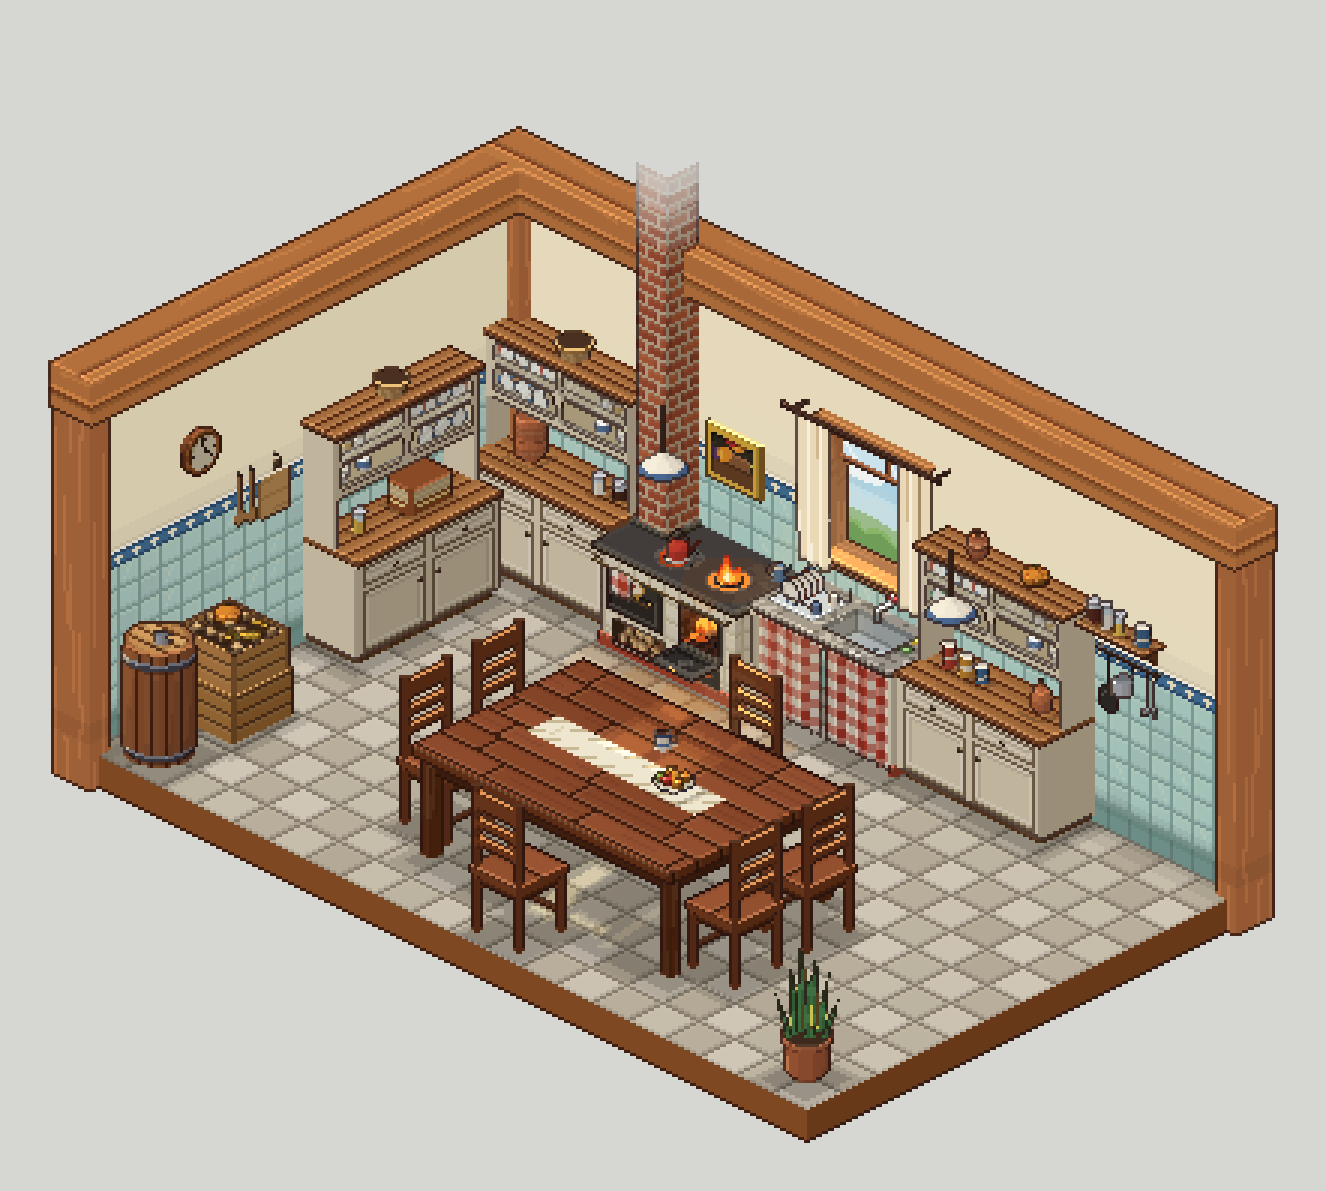
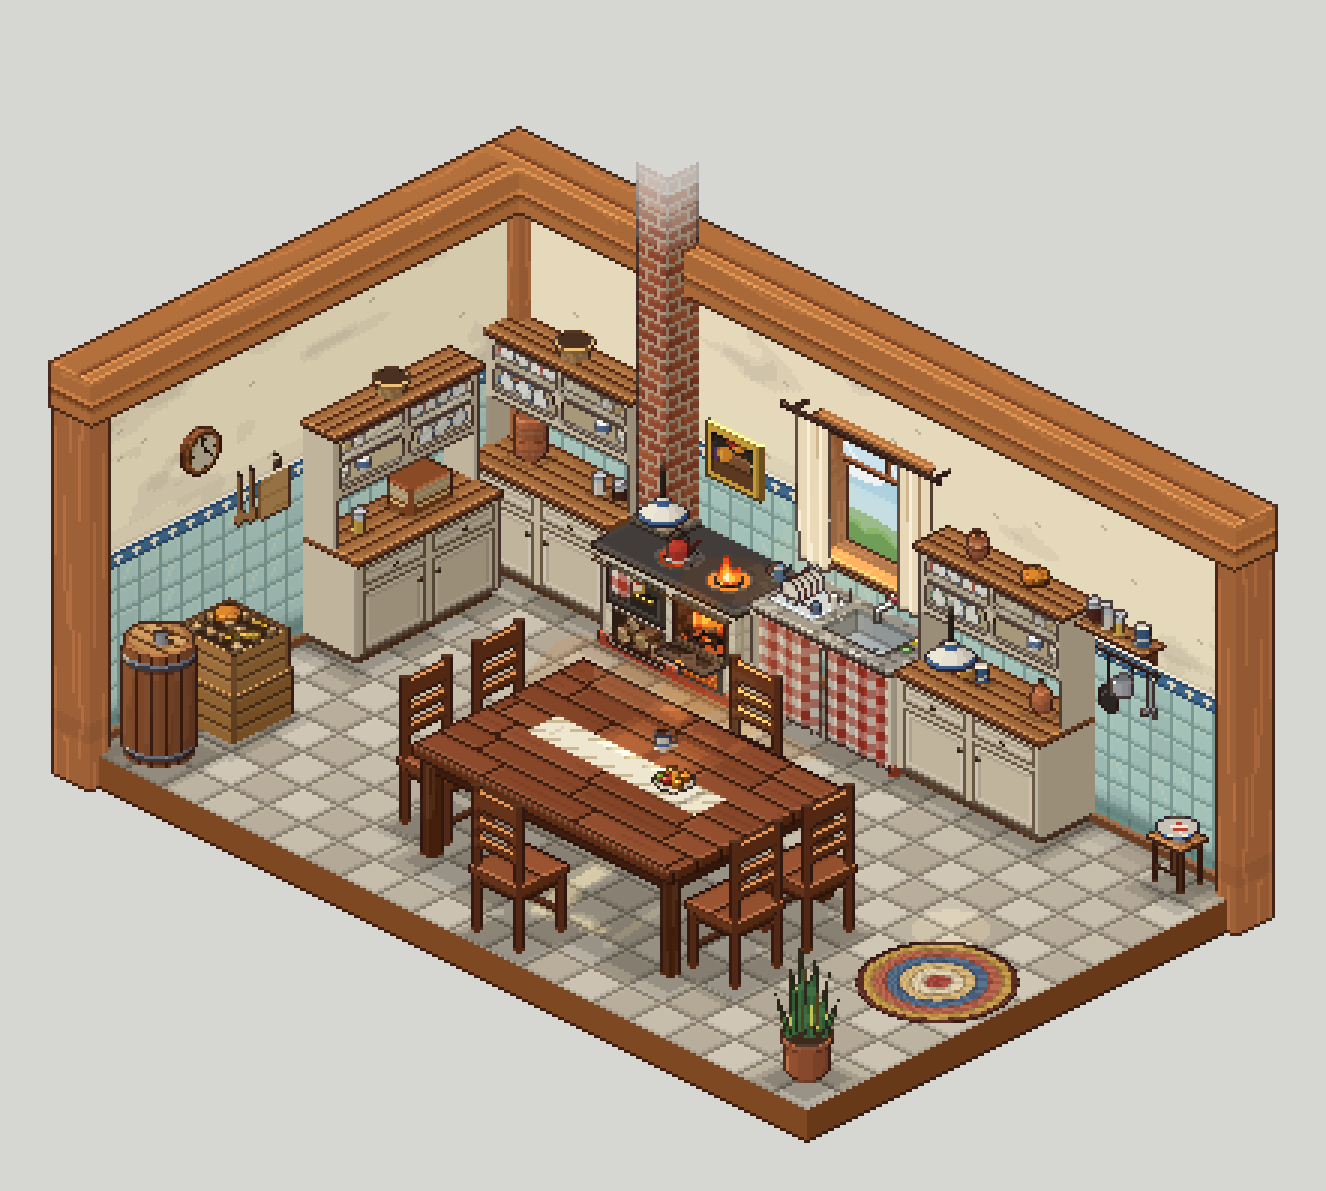
Estudo do estilo: a cozinha da fazenda corrigida
As lâmpadas do teto com o fio sumindo antes da viga e a luz em cone na
mesa, a fornalha maior com o brilho no chão e as frestas do cinzeiro, as
toras do nicho de lenha, o tapete de trança e o banquinho com a bacia, a
cal com desgaste e o rodapé.

Claude-Session: https://claude.ai/code/session_01GewMJN2dFJ5tMTC2oy9kJJ

diff --git a/scripts/3d/estilo/agente_cozinha/cozinha.py b/scripts/3d/estilo/agente_cozinha/cozinha.py
@@ -24,7 +24,7 @@ sys.path.insert(0, os.path.join(os.path.dirname(os.path.abspath(__file__)), '..'
 sys.path.insert(0, AQUI)
 import numpy as np                          # noqa: E402
 from PIL import Image                       # noqa: E402
-from motor import Cena, MUNDO, tela, ruido, emissivo, KX, KY, KZ, VISTA   # noqa: E402
+from motor import Cena, MUNDO, tela, ruido, emissivo, suave, KX, KY, KZ, VISTA   # noqa: E402
 import base_estilo as BE                    # noqa: E402
 from base_estilo import (hx, coords, liso, madeira, tabuas, mad2, tab2, vol, _tom, _cru, _fac, _poligono_rodado,  # noqa: E402
                          _disco, _fita, _pau, _barra, _p1_malha, _p1_mat_rampa, _p1_rampa, _MAD, _ponta_tabuas,
@@ -41,7 +41,8 @@ c = None
 pegadas = []
 luzes = set()
 vidros = []          # o vidro dos armários: caixas no mundo (o que se vê por trás dele fica tingido)
-fades = []           # objetos que somem para o fundo acima de uma altura (a chaminé, os fios das lâmpadas)
+fades = []           # objetos que somem para o fundo acima de uma altura (a chaminé)
+fades_atras = []     # os que somem para o que está atrás deles (o fio das lâmpadas)
 lampadas = []        # o meio da lâmpada (para a luz)
 itens_peq = []       # objetos pequenos nos tampos (a sombrinha de contato)
 
@@ -130,6 +131,16 @@ def parede(eixo):
         # a cal: clareia em 2 degraus para cima
         out = np.where((z > 2.0)[:, None], _tom(pint, 1.04), out)
         out = np.where((z < 1.75)[:, None], _tom(pint, 0.97), out)
+        # a cal gasta: manchas grandes e suaves em dois degraus (pixel limpo: a borda segue a grade 1 px x 1 px)
+        qa, qz = np.floor(a / PH) * PH, np.floor(z / PZ) * PZ
+        s = suave(qa + (3.1 if eixo == 'x' else 11.7), qz * 1.6, 0.55, 9) * 0.65 + suave(qa, qz * 2.0, 0.22, 4) * 0.35
+        out = np.where((s > 0.66)[:, None], _tom(out, 0.95), out)
+        out = np.where((s > 0.76)[:, None], _tom(out, 0.95), out)
+        # as lasquinhas (2 px deitados, a sombra embaixo) e a sujeira escura logo embaixo da viga
+        ia_, iz_ = np.floor(a / (2 * PH)), np.floor(z / PZ)
+        lasca = ruido(ia_, iz_, 5.0) > 0.996
+        out = np.where(lasca[:, None], _tom(pint, 0.82), out)
+        out = np.where(((z > ALTO - 2 * PZ))[:, None], _tom(out, 0.9), out)
         # o azulejo
         ia, iz = np.floor(a / TA), np.floor(z / TZ)
         ga, gz = a - ia * TA, z - iz * TZ
@@ -164,6 +175,10 @@ def sala():
     c.caixa((0, LX, 0, LY, -0.28, 0), {'cima': ladrilho(), '*': madeira('#94552c', veio=False)}, M, o)
     caixa((-ESP, LX, -ESP, 0, 0, ALTO), {'frente': parede('x'), '*': liso('#8a5230')}, tipo=2)
     caixa((-ESP, 0, 0, LY, 0, ALTO), {'dir': parede('y'), '*': liso('#8a5230')}, tipo=2)
+    # o rodapé de madeira encerada nas duas paredes (a quina de cima clara)
+    RDP = _pau('#6e4026', '#8a5434', quina=1.3, b=(0, 0, 0, 0, 0, 0.09))
+    caixa((0, LX, 0, 0.018, 0, 0.09), RDP, tipo=2)
+    caixa((0, 0.018, 0.018, LY, 0, 0.09), RDP, tipo=2)
     # a viga grossa em cima e os pilares (no canto de trás e nas duas pontas)
     MOLD = ['#b5733e', '#ad6c3a']
     VG = tabuas(MOLD, 0.6, 9, '#7a4222', ponta=False)
@@ -242,9 +257,17 @@ def tora_y(cx, cz, r, y0, y1, casca='#5a3a22', miolo='#c89a62', lados=8, oid=Non
         fp([(xa, y0, za), (xb, y0, zb), (xb, y1, zb), (xa, y1, za)], nn, liso('#%02x%02x%02x' % tuple(np.clip(cc * k, 0, 255).astype(int))), o)
 
     def ponta(L, n, P):
-        rr = np.hypot(P[:, 0] - cx, P[:, 2] - cz) / r
+        # no pixel: a casca (1 px), o alburno claro, o anel escuro no meio e o miolo
+        rx = (P[:, 0] - cx) * 32
+        rz = (P[:, 2] - cz) * 39.2
+        rr = np.hypot(rx, rz)
+        R = r * 32
         out = np.tile(cm, (len(P), 1))
-        out = np.where((rr > 0.72)[:, None], _tom(cm, 0.8), out)
+        out = np.where((rr < R * 0.62)[:, None], _tom(cm, 0.94), out)
+        out = np.where((np.abs(rr - R * 0.5) < 0.55)[:, None], _tom(cm, 0.72), out)
+        out = np.where((rr < 0.9)[:, None], _tom(cm, 0.66), out)
+        out = np.where(((rr > R - 1.1) & (rx + rz > 0))[:, None], _tom(cm, 1.08), out)
+        out = np.where((rr > R - 0.9)[:, None] & ~((rx + rz > 0)[:, None]), _tom(cc, 1.2), out)
         return out
     fp([(x, y1, z) for (x, z) in pts], (0, 1, 0), emissivo(ponta), o)
     return o
@@ -254,7 +277,7 @@ def tora_y(cx, cz, r, y0, y1, casca='#5a3a22', miolo='#c89a62', lados=8, oid=Non
 # o fogão a lenha (2 x 1 casas, giro 4: a frente para +y, encostado no fundo; altura 0,85 m; aceso)
 # =====================================================================================================================
 FOG = dict(x0=1.5, x1=3.0, yb=0.70, zc=0.79, zt=0.85)
-FORN = dict(m=2.6, bw=0.2, zp=0.36, bt=0.66, yb=0.70, yf=0.28)      # a boca da fornalha
+FORN = dict(m=2.6, bw=0.24, zp=0.38, bt=0.7, yb=0.70, yf=0.26)      # a boca da fornalha
 CHAM = (1.55, 1.89, 0.0, 0.34)                                          # a chaminé (x0, x1, y0, y1)
 BOCAS = ((2.62, 0.43), (2.12, 0.45))                                    # as bocas da chapa (a 1ª, em cima do fogo, aberta)
 FURO = 0.095                                                            # o buraco da boca aberta
@@ -264,7 +287,7 @@ def fogao(aceso=True):
     x0, x1, yb, zc, zt = FOG['x0'], FOG['x1'], FOG['yb'], FOG['zc'], FOG['zt']
     m, bw, zp, bt, yf = FORN['m'], FORN['bw'], FORN['zp'], FORN['bt'], FORN['yf']
     # ---- o corpo de alvenaria: azulejinho creme, a barra vermelha embaixo ----
-    nicho = (1.68, 2.2, 0.06, 0.25)                  # o nicho da lenha embaixo do forno
+    nicho = (1.66, 2.2, 0.05, 0.33)                  # o nicho da lenha embaixo do forno
     corpo = c.novo_obj(3)
     AZF = azulejinho()
     face_com_furos('y', yb, x0 + 0.03, x1 - 0.03, 0.1, zc, [(m - bw, m + bw, zp, bt), (nicho[0], nicho[1], 0.1, nicho[3])], AZF, corpo)
@@ -316,7 +339,7 @@ def fogao(aceso=True):
         _barra(b, '#34302d', '#4a4541', quina=1.3)
     # a portinhola da fornalha aberta para baixo (presa embaixo): fica deitada na frente da boca, de ferro fundido
     # com a moldura em relevo, o losango e a tramela de latão; não tapa o fogo nem o forno
-    dz0, dlen, desp = zp - e, 0.3, 0.022
+    dz0, dlen, desp = zp - e, 0.22, 0.022
     dx0, dx1 = m - bw - e + 0.008, m + bw + e - 0.008
 
     def portinhola(L, n, P):
@@ -339,25 +362,32 @@ def fogao(aceso=True):
         _barra((xx, xx + 0.03, yb, yb + 0.03, dz0 - desp - 0.004, dz0 + 0.004), '#2a2624', '#4a4541', quina=False)
 
     # ---- o cinzeiro embaixo da fornalha (as frestas em brasa) ----
-    zc0, zc1 = 0.1, 0.28
+    zc0, zc1 = 0.08, 0.3
 
     def cinzeiro(L, n, P):
         out = np.tile(hx('#36322f'), (len(P), 1))
         if n[1] > 0.5:
             z = P[:, 2]
             X = P[:, 0]
-            for k in range(2):
-                zz = zc0 + 0.06 + k * 0.05
-                fr = (z > zz) & (z <= zz + PZ) & (np.abs(X - m) < bw - 0.07)
-                out = np.where(fr[:, None], hx('#b8481e') if aceso else hx('#141210'), out)
-                out = np.where(((z > zz + PZ) & (z <= zz + 2 * PZ) & (np.abs(X - m) < bw - 0.06))[:, None], hx('#4e4844'), out)
-            out = np.where((np.abs(X - m) < 0.02)[:, None] & (z > zc1 - 0.045)[:, None] & (z < zc1 - 0.02)[:, None], hx('#c89a3e'), out)
+            # as três frestas em brasa (2 px: a de cima mais viva, pulsando com o fogo)
+            pul = 0.5 + 0.5 * math.sin(2 * math.pi * FOGO_T['t'])
+            for k in range(3):
+                zz = zc0 + 0.02 + k * 0.042
+                lar = np.abs(X - m) < bw - 0.06
+                fr1 = (z > zz) & (z <= zz + PZ) & lar
+                fr2 = (z > zz + PZ) & (z <= zz + 2 * PZ) & lar
+                if aceso:
+                    out = np.where(fr1[:, None], hx('#c8481c'), out)
+                    out = np.where(fr2[:, None], hx('#ffb040') if (pul > 0.5) != (k == 1) else hx('#f08a2a'), out)
+                else:
+                    out = np.where((fr1 | fr2)[:, None], hx('#141210'), out)
+                out = np.where(((z > zz + 2 * PZ) & (z <= zz + 3 * PZ) & lar)[:, None], hx('#4e4844'), out)
         return out
     o = c.novo_obj(3)
     c.caixa((m - bw + 0.01, m + bw - 0.01, yb, yb + 0.018, zc0, zc1), {'frente': emissivo(cinzeiro), '*': _pau('#2e2a28', '#4a4541', quina=1.3, b=(0, 0, 0, 0, zc0, zc1))}, M, o)
 
     # ---- o forno: a porta de ferro com a moldura, o puxador e o termômetro ----
-    fx0, fx1, fz0, fz1 = 1.62, 2.2, 0.33, 0.68
+    fx0, fx1, fz0, fz1 = 1.62, 2.24, 0.39, 0.72
 
     def forno(L, n, P):
         out = np.tile(hx('#3a3532'), (len(P), 1))
@@ -386,12 +416,11 @@ def fogao(aceso=True):
     fp([(nx0, 0.32, nz0), (nx1, 0.32, nz0), (nx1, yb, nz0), (nx0, yb, nz0)], (0, 0, 1), liso('#2e2016'), on)
     fp([(nx0, 0.32, nz0), (nx1, 0.32, nz0), (nx1, 0.32, nz1), (nx0, 0.32, nz1)], (0, 1, 0), liso('#22170f'), on)
     fp([(nx0, 0.32, nz0), (nx0, yb, nz0), (nx0, yb, nz1), (nx0, 0.32, nz1)], (1, 0, 0), liso('#3a2a1e'), on)
-    r = 0.05
-    pilha = c.novo_obj(3)            # a pilha é um objeto só: sem contorno entre as toras (só a casca escura entre elas)
-    for k, xx in enumerate((nx0 + 0.07, nx0 + 0.18, nx0 + 0.29, nx0 + 0.4)):
-        tora_y(xx, nz0 + r, r, 0.36, yb - 0.02 - 0.012 * (k % 2), oid=pilha, casca=('#6a4428', '#5a3a22')[k % 2], miolo=('#e6bf86', '#dcb27a')[k % 2])
-    for k, xx in enumerate((nx0 + 0.125, nx0 + 0.235, nx0 + 0.345)):
-        tora_y(xx, nz0 + 2.7 * r, r * 0.95, 0.36, yb - 0.03 - 0.015 * (k % 2), oid=pilha, casca=('#5a3a22', '#6a4428')[k % 2], miolo=('#dcb27a', '#e8c48c')[k % 2])
+    # três toras grandes embaixo e uma em cima, encaixada (as pontas claras com os anéis e a casca escura)
+    r = 0.078
+    for k, xx in enumerate((nx0 + 0.095, nx0 + 0.265, nx0 + 0.435)):
+        tora_y(xx, nz0 + r, r, 0.36, yb - 0.015 - 0.02 * (k % 2), casca=('#5e3c22', '#6a4428', '#553620')[k], miolo=('#e8c48c', '#dcb47a', '#e4be84')[k], lados=12)
+    tora_y(nx0 + 0.18, nz0 + r + 1.62 * r, r * 0.92, 0.36, yb - 0.035, casca='#6a4428', miolo='#eccb94', lados=12)
 
     # ---- o varão de latão na frente da chapa, com o pano de prato xadrez ----
     for xx in (x0 + 0.05, x1 - 0.07):
@@ -1096,6 +1125,50 @@ def espada_sao_jorge(x, y):
             c.face_plana([(cx_ + s * k, cy_ - s * k, zz) for (s, zz) in quad], (k, k, 0), emissivo(f), M, of)
 
 
+def tapete_tranca(xc, yc, r=0.6):
+    """O tapete redondo de trança de retalhos: os anéis de cores, cada um com a trança em diagonal, a borda escura."""
+    cores = np.stack([hx(x) for x in ('#a8443a', '#c89a48', '#4e6a8a', '#e2d2ae', '#6e7c4a', '#b8604a', '#d8b878')])
+    pa = 3 * PH                                   # a largura de cada anel (3 px)
+
+    def f(L, n, P):
+        dx, dy = P[:, 0] - xc, P[:, 1] - yc
+        rr = np.hypot(dx, dy)
+        anel = np.floor(rr / pa)
+        ang = np.arctan2(dy, dx)
+        out = cores[(anel.astype(int) * 3) % len(cores)]
+        # a trança: os gomos em diagonal, um claro e um escuro, desencontrados de anel para anel
+        g = np.floor(ang * rr / (2 * PH) + anel * 0.5 + (rr % pa) / pa)
+        out = np.where((g % 2 == 0)[:, None], _tom(out, 1.08), _tom(out, 0.9))
+        out = np.where((rr % pa < PH * 0.8)[:, None], _tom(out, 0.78), out)
+        out = np.where((rr > r - 1.6 * PH)[:, None], hx('#5a2e22'), out)
+        return out
+    o = c.novo_obj(3)
+    c.cilindro(xc, yc, r, 0.0, 0.014, liso('#4a2620'), M, o, lados=40, tampa_mat=emissivo(f))
+
+
+def banquinho(x, y, cor='#8a5230'):
+    """O banquinho de madeira encostado na parede, com a bacia de ágata em cima."""
+    s, d, h = 0.36, 0.3, 0.4
+    caixa((x, x + s, y, y + d, h - 0.04, h), {'cima': tab2(['#b07440', '#a86e3c'], d / 2, '#5a2c16', eixo=0, seed=81, org=y), '*': _pau(cor, quina=False)}, sombra=False)
+    for (a, b) in ((x + 0.03, y + 0.03), (x + s - 0.07, y + 0.03), (x + 0.03, y + d - 0.07), (x + s - 0.07, y + d - 0.07)):
+        _barra((a, a + 0.04, b, b + 0.04, 0, h - 0.04), '#6a3c22', '#8a5230', quina=False)
+    _barra((x + 0.05, x + s - 0.05, y + d - 0.06, y + d - 0.04, 0.12, 0.15), '#6a3c22', quina=False)
+    pegadas.append((x, x + s, y, y + d))
+    # a bacia esmaltada (branca com a borda azul) e o pano dobrado dentro
+    bx, by = x + s / 2, y + d / 2
+    o = c.novo_obj(3)
+    _poligono_rodado(bx, by, [(h, 0.1), (h + 0.05, 0.15), (h + 0.07, 0.17)], vol(bx, by, '#ece6da', brilho=0.4,
+                     faixas=lambda P, b: np.where((P[:, 2] > h + 0.07 - 1.2 * PZ)[:, None], hx('#3e5f8e'), b)), o, lados=24)
+
+    def dentro(L, n, P):
+        rr = np.hypot(P[:, 0] - bx, P[:, 1] - by)
+        out = np.where((rr > 0.15)[:, None], hx('#3e5f8e'), hx('#c8c2b6'))
+        pano = (np.abs(P[:, 0] - bx - 0.02) < 0.06) & (np.abs(P[:, 1] - by + 0.01) < 0.05)
+        return np.where(pano[:, None], np.where(((np.floor(P[:, 0] / (2 * PH)) + np.floor(P[:, 1] / (2 * PH))) % 2 == 0)[:, None], hx('#b8402e'), hx('#f0e6d6')), out)
+    _disco(bx, by, h + 0.07, 0.17, emissivo(dentro), o, lados=24)
+    itens_peq.append((bx - 0.17, bx + 0.17, by - 0.17, by + 0.17, h))
+
+
 # =====================================================================================================================
 # as coisas de parede: a prateleira com os potes e as panelas penduradas, a natureza-morta, o relógio, o alho
 # =====================================================================================================================
@@ -1327,30 +1400,39 @@ def tabua_colheres(yc, zt):
            liso('#c8925a'), oc_)
 
 
-def lampada(x, y, zc=2.7):
-    """A lâmpada pendurada de esmalte (o prato branco com a borda azul e a lâmpada acesa) e o fio que sobe."""
+def lampada(x, y, zc=2.3):
+    """
+    A lâmpada pendurada de esmalte: a cúpula branca com a borda azul, a lâmpada acesa, o soquete preto e o fio que
+    sobe e some aos poucos (em degraus, para o que está atrás dele) antes da viga.
+    """
     o = c.novo_obj(3)
-    _poligono_rodado(x, y, [(zc, 0.2), (zc + 0.05, 0.15), (zc + 0.11, 0.06), (zc + 0.14, 0.035)],
-                     vol(x, y, '#ece6d6', brilho=0.3, faixas=lambda P, b: np.where((P[:, 2] < zc + PZ * 1.5)[:, None], hx('#3e5f8e'), b)), o, lados=24,
-                     tampa_mat=liso('#d8d2c2'))
+    perfil = [(zc, 0.2), (zc + 0.03, 0.18), (zc + 0.08, 0.12), (zc + 0.13, 0.055), (zc + 0.15, 0.04)]
+
+    def esmalte(P, b):
+        zz = P[:, 2] - zc
+        b = np.where((zz < 1.5 * PZ)[:, None], hx('#3e5f8e'), b)
+        return np.where(((zz > 0.115) & (zz < 0.115 + PZ))[:, None], hx('#3e5f8e'), b)
+    _poligono_rodado(x, y, perfil, vol(x, y, '#ece6d6', brilho=0.35, faixas=esmalte), o, lados=26, tampa_mat=liso('#d8d2c2'))
+    c.cilindro(x, y, 0.025, zc + 0.15, zc + 0.2, vol(x, y, '#2a2624', brilho=0.3), M, o, lados=10, tampa_mat=liso('#3a3634'))
     ob = c.novo_obj(3, contorno=False)
     luzes.add(ob)
-    c.elipsoide(np.array([x, y, zc - 0.015]), np.array([0.045, 0.045, 0.04]), liso('#fff2c0'), ob)
-    of = c.novo_obj(3, sombra=False)
-    c.caixa((x - 0.008, x + 0.008, y - 0.008, y + 0.008, zc + 0.14, ALTO + 0.38), liso('#2a2420'), M, of)
-    lampadas.append(((x, y, zc - 0.1), 1.8, 0.45))
+    c.elipsoide(np.array([x, y, zc - 0.012]), np.array([0.05, 0.05, 0.04]), liso('#fff4c8'), ob)
+    of = c.novo_obj(3, sombra=False, contorno=False)
+    c.caixa((x - 0.012, x + 0.012, y - 0.012, y + 0.012, zc + 0.2, ALTO - 0.01), liso('#2a2420'), M, of)
+    fades_atras.append((of, ALTO - 0.16, 0.15))
+    lampadas.append(((x, y, zc - 0.02), 0.62, 0.55))
 
 
 # =====================================================================================================================
 # a montagem de um quadro
 # =====================================================================================================================
 def nova_cena():
-    global c, pegadas, luzes, vidros, fades, lampadas, itens_peq
+    global c, pegadas, luzes, vidros, fades, fades_atras, lampadas, itens_peq
     cantos = np.array([[x, y, z] for x in (-0.5, LX + 0.3) for y in (-0.5, LY + 0.3) for z in (-0.35, ALTO + 1.2)])
     S = tela(cantos)
     x0, y0 = int(S[:, 0].min()) - 4, int(S[:, 1].min()) - 4
     c = Cena(x0, y0, int(S[:, 0].max() - x0) + 4, int(S[:, 1].max() - y0) + 4)
-    pegadas, luzes, vidros, fades, lampadas, itens_peq = [], set(), [], [], [], []
+    pegadas, luzes, vidros, fades, fades_atras, lampadas, itens_peq = [], set(), [], [], [], [], []
     BE.ligar(globals())
 
 
@@ -1375,6 +1457,10 @@ def montar_moveis(t):
     fruteira(4.62, 3.0, 0.9405)
     # a planta (9,5) no canto da frente
     espada_sao_jorge(7.12, 4.12)
+    # enfeites que não são móveis do seed (o chão livre da metade da direita): o tapete de trança na frente da porta
+    # (casas 8..9 x 2..3, longe das cadeiras) e o banquinho com a bacia encostado no fundo, embaixo das panelas
+    tapete_tranca(6.86, 2.5, 0.6)
+    banquinho(6.88, 0.05)
     # as lâmpadas do teto (4,2) e (8,2)
     lampada(4.5 * CASA, 2.5 * CASA)
     lampada(8.5 * CASA, 2.5 * CASA)
@@ -1389,13 +1475,14 @@ def montar_moveis(t):
 
 
 FOGO_ACESO = {'v': True}
+FOGO_T = {'t': 0.0}
 
 
 def _fogo(cor, t, forca):
     from fogo_cozinha import desenhar_fogo
     g = dict(FORN)
-    g.update(esc=0.62, r_tora=0.032, raio_luz=1.7, chama_dx=0.02, chama_y=0.32)
-    g.update(luz_y0=0.05, luz_fora=(1.45, 3.05, 0.0, 1.08, 0.03))
+    g.update(esc=0.75, r_tora=0.036, raio_luz=2.0, chama_dx=0.03, chama_y=0.32)
+    g.update(luz_y0=0.0, luz_fora=(1.45, 3.05, 0.0, 1.1, 0.03), luz_fora_k=0.5)
     cor = desenhar_fogo(cor, c, t=t, forca=forca, geo=g, fumaca_chamine=0.0)
     from fogo_cozinha import chamas_boca
     return chamas_boca(cor, c, t, forca, BOCAS[0], FURO, FOG['zt'], luz=(0.85, 0.45))
@@ -1483,6 +1570,18 @@ def acabamento(t, forca, tj=None):
         m = (obj == oid) & (Z > zf)
         k = np.ceil(np.clip((Z - zf) / alto, 0, 1) * 5) / 5
         cor = np.where(m[..., None], cor * (1 - k[..., None]) + fundo * k[..., None], cor)
+    # o fio da lâmpada some em degraus para o que está atrás dele (a cor do vizinho de lado, que não é o fio)
+    for (oid, zf, alto) in fades_atras:
+        m = (obj == oid)
+        if not m.any():
+            continue
+        atras = cor.copy()
+        for dx in (3, -3, 4, -4):
+            vz = np.roll(cor, dx, axis=1)
+            vo = np.roll(obj, dx, axis=1)
+            atras = np.where((m & (vo != oid) & (np.roll(m, dx, axis=1) == False) & (atras == cor).all(-1))[..., None], vz, atras)
+        k = np.ceil(np.clip((Z - zf) / alto, 0, 1) * 4) / 4
+        cor = np.where((m & (Z > zf))[..., None], cor * (1 - k[..., None]) + atras * k[..., None], cor)
     if FOGO['ok']:
         cor = FOGO['f'](cor, t, forca)
     for (L0, raio, forca_l) in lampadas:
@@ -1492,13 +1591,19 @@ def acabamento(t, forca, tj=None):
     return cor
 
 
-def luz_lampada(cor, L0, raio, forca_l):
-    """A luz morna da lâmpada pendurada: clareia em anéis (em degraus) o que está embaixo dela."""
+def luz_lampada(cor, L0, tg, forca_l):
+    """
+    O cone de luz morna da lâmpada: o que está embaixo dela e voltado para cima (o tampo, o chão) clareia numa mancha
+    redonda que abre com a distância (tg = a abertura do cone), em 3 degraus; e um halo fraco em volta da cúpula.
+    """
     P = c.mundoP
-    d = np.linalg.norm(P - np.array(L0), axis=-1)
-    s = np.clip(1 - d / raio, 0, 1) ** 1.3 * forca_l
-    s = np.where(c.obj >= 0, np.floor(s * 4) / 4, 0)
-    return cor + (np.array([255.0, 214.0, 150.0]) - cor * 0.3) * s[..., None] * 0.22
+    L0 = np.array(L0)
+    dz = L0[2] - P[..., 2]
+    rh = np.hypot(P[..., 0] - L0[0], P[..., 1] - L0[1])
+    raio = np.maximum(dz, 0.05) * tg + 0.12
+    s = np.clip(1 - rh / raio, 0, 1) ** 0.8 * np.clip(1.3 - dz / 3.0, 0, 1) * forca_l
+    s = np.where((c.obj >= 0) & (c.nz > 0.6) & (dz > 0.3), np.floor(s * 3 + 0.25) / 3, 0)
+    return cor + (np.array([255.0, 222.0, 160.0]) - cor * 0.3) * s[..., None] * 0.3
 
 
 import janela_cozinha as _JC  # noqa: E402
@@ -1510,6 +1615,7 @@ def montar(t=0.0, forca=1.0, tj=None):
     """Um quadro: t = o instante do fogo (0..1, loop), tj = o da cortina (padrão: t), forca = o fogo (1 aceso, 0 apagado)."""
     tj = t if tj is None else tj
     FOGO_ACESO['v'] = forca > 0.3
+    FOGO_T['t'] = t
     nova_cena()
     sala()
     montar_moveis(tj)

diff --git a/scripts/3d/estilo/agente_cozinha/fogo_cozinha.py b/scripts/3d/estilo/agente_cozinha/fogo_cozinha.py
@@ -399,13 +399,16 @@ def desenhar_fogo(cor, c, t=0.0, forca=1.0, fumaca=None, fumaca_t=None, geo=None
         frente = (Y > yb + g.get('luz_y0', -0.03)) & (c.obj >= 0) & ~vao
         if g.get('luz_fora'):
             a0, a1, b0, b1, zf = g['luz_fora']
-            frente &= ~((X > a0) & (X < a1) & (Y > b0) & (Y < b1) & (Z > zf))
+            fora = (X > a0) & (X < a1) & (Y > b0) & (Y < b1) & (Z > zf)
         # o raio dos anéis encolhe com a luz (as brasas sozinhas só esquentam a beira da boca)
         R = g.get('raio_luz', 0.5 + 1.2 * lz)
         k = ((np.clip(1 - d3 / R, 0, 1) ** 0.8 * (0.3 + 0.8 * olha) + 0.5 * np.clip(1 - d3 / (0.3 + 0.32 * lz), 0, 1))
              * (0.4 + 0.6 * lz))
         k = np.minimum(np.floor(k * 4) / 4, 1.0)
         k = np.where(frente, k, 0.0)
+        if g.get('luz_fora'):
+            # na frente do próprio fogão a luz é mais fraca (só esquenta: não vira marrom)
+            k = np.where(fora, np.floor(k * g.get('luz_fora_k', 0.0) * 4) / 4, k)
         cor = _luz_quente(cor, k)
     return np.clip(cor, 0, 255)
 
